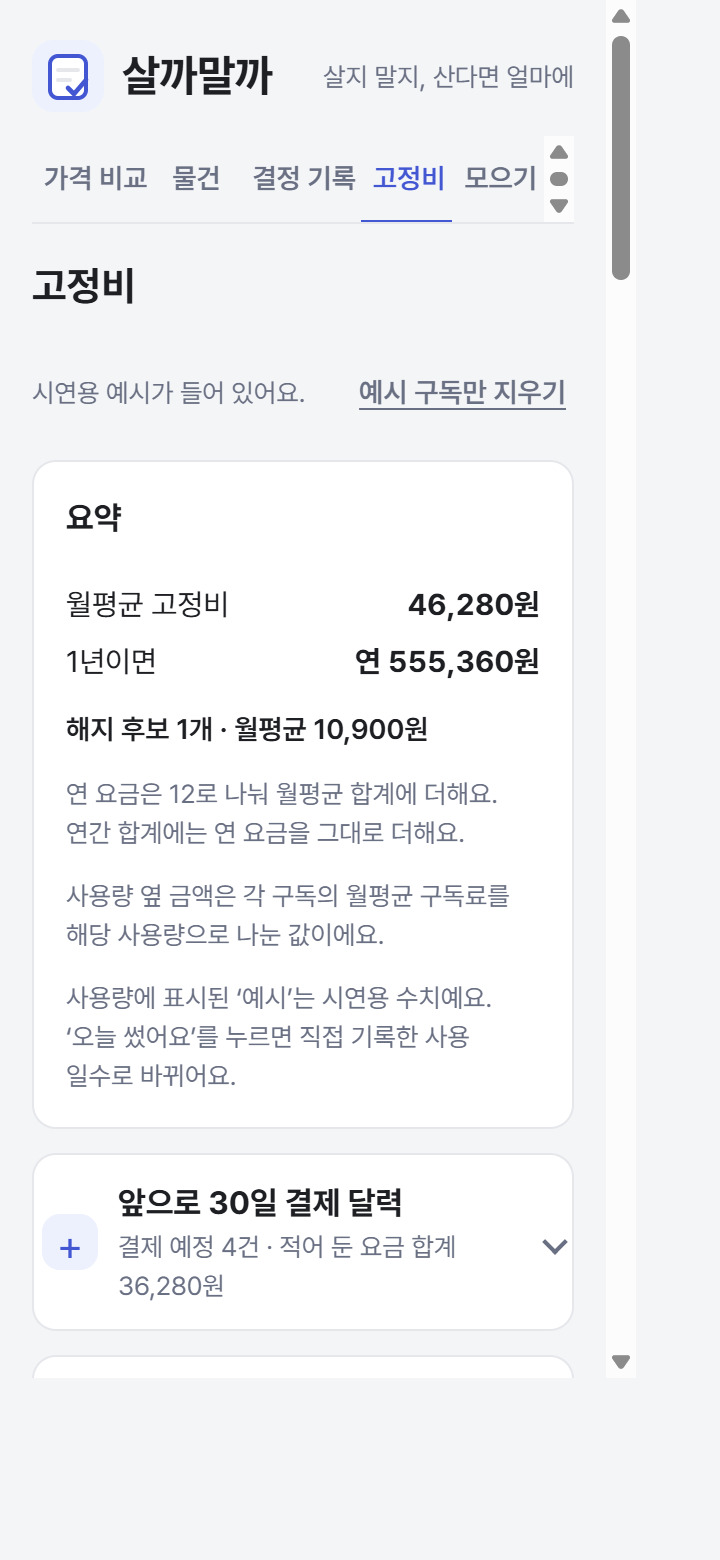
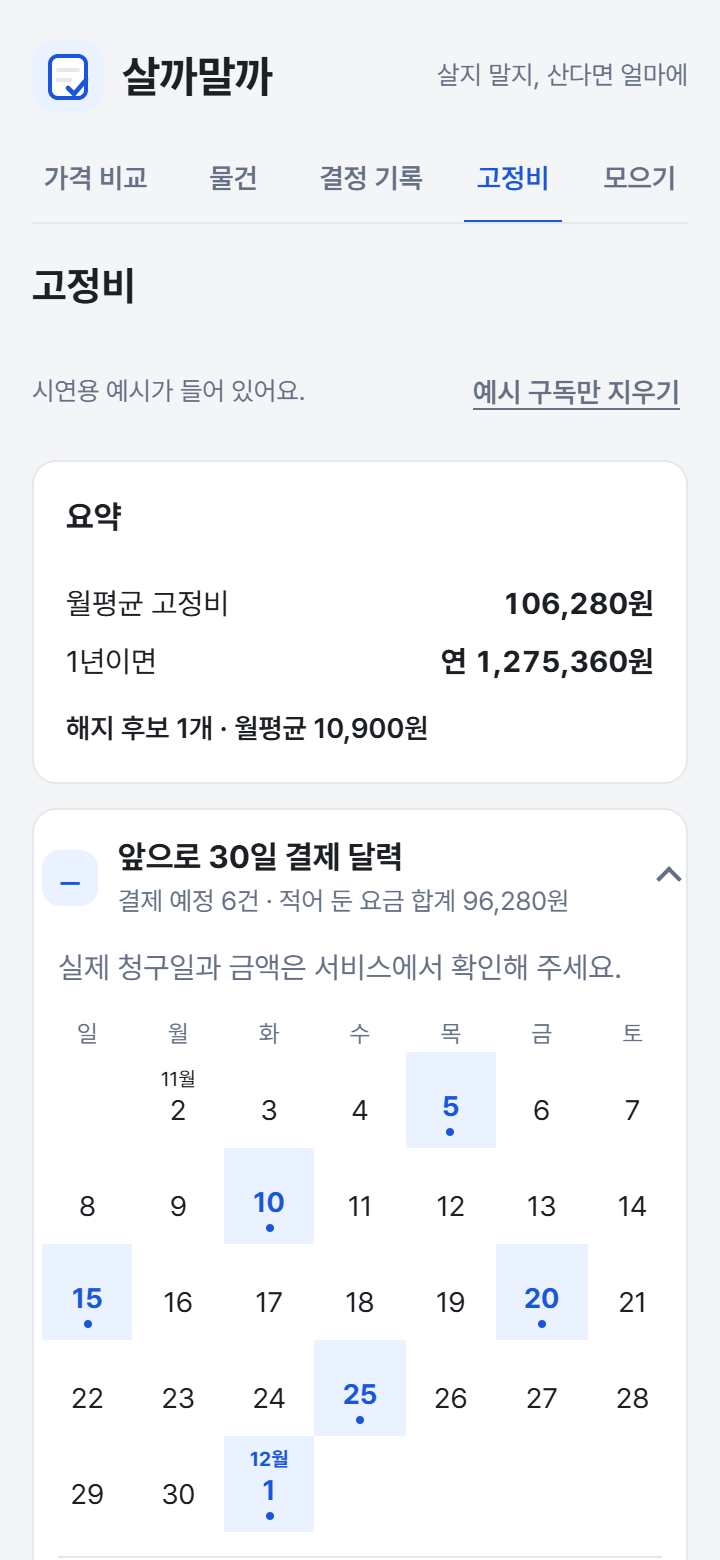
feat: simplify fixed-cost and savings views for midterm demo
Open the payment calendar, expand sourced benefit guidance, and move optional entry forms below the summary. Refresh comparison screenshots and explain the v1-to-midterm PRD, TODO, and skill lessons.

diff --git a/src/App.fixedCosts.test.tsx b/src/App.fixedCosts.test.tsx
@@ -80,7 +80,7 @@ describe('고정비 종류와 요약 (F45)', () => {
     expect(summary().getByText('월평균 고정비')).toBeInTheDocument()
     expect(summary().getByText('528,500원')).toBeInTheDocument()
     expect(summary().getByText('연 6,342,000원')).toBeInTheDocument()
-    expect(summary().getByText('구독·멤버십 23,500원 · 통신 55,000원 · 월세·관리비 450,000원')).toBeInTheDocument()
+    expect(screen.getByText('구독·멤버십 23,500원 · 통신 55,000원 · 월세·관리비 450,000원')).toBeInTheDocument()
     expect(storedItems().find((i) => i.name === '월세')).toMatchObject({ kind: 'housing' })
     expect(storedItems().find((i) => i.name === '휴대폰')).toMatchObject({ kind: 'phone', lastUsedDate: null })
     expect(storedItems().find((i) => i.name === '넷플릭스')).not.toHaveProperty('kind')
@@ -133,14 +133,14 @@ describe('예전 기록과 예시 (F45)', () => {
     expect(summary().getByText('해지 후보 1개 · 월평균 13,500원')).toBeInTheDocument()
   })
 
-  it('AC82: 예시 구독은 AC30 그대로다', async () => {
+  it('AC82: 예시 구독에 통신·보험 고정비가 더해진다', async () => {
     const user = await openFixed()
     await user.click(screen.getByRole('button', { name: '예시 구독 넣기' }))
-    expect(screen.getAllByRole('article')).toHaveLength(5)
-    expect(summary().getByText('46,280원')).toBeInTheDocument()
-    expect(summary().getByText('연 555,360원')).toBeInTheDocument()
+    expect(screen.getAllByRole('article')).toHaveLength(7)
+    expect(summary().getByText('106,280원')).toBeInTheDocument()
+    expect(summary().getByText('연 1,275,360원')).toBeInTheDocument()
     expect(summary().getByText('해지 후보 1개 · 월평균 10,900원')).toBeInTheDocument()
-    expect(summary().queryByText(/구독·멤버십 .*원/)).not.toBeInTheDocument()
+    expect(screen.getByText('고정비 분석·계산 방법')).toBeInTheDocument()
   })
 
   it('AC82: 종류를 통신으로 바꿨다가 다시 구독으로 바꾸면 확인 필요다', async () => {
@@ -244,7 +244,7 @@ describe('무료 체험 끝나는 날 (F46)', () => {
     expect(storedItems()[0]).toMatchObject({ name: '넷플릭스', billingDay: 14, trialEndDate: '2026-11-14' })
     expect(card('넷플릭스').getByText(TRIAL_ON)).toBeInTheDocument()
     expect(card('넷플릭스').getByText('다음 결제 2026-11-14 · D-13')).toBeInTheDocument()
-    expect(summary().getByText('무료 체험 중 1개 · 끝나면 월 13,500원이 더 나가요')).toBeInTheDocument()
+    expect(screen.getByText('무료 체험 중 1개 · 끝나면 월 13,500원이 더 나가요')).toBeInTheDocument()
     // 체험 중인 것만 있으면 합계는 0원이다
     expect(summary().getByText('연 0원')).toBeInTheDocument()
   })
@@ -263,7 +263,7 @@ describe('무료 체험 끝나는 날 (F46)', () => {
     await openFixed()
     expect(card('넷플릭스').getByText('무료 체험 중 · 2026-11-14에 끝나요 (D-13). 그 뒤 연 120,000원')).toBeInTheDocument()
     expect(card('넷플릭스').getByText('다음 결제 2026-11-14 · D-13')).toBeInTheDocument()
-    expect(summary().getByText('무료 체험 중 1개 · 끝나면 월 10,000원이 더 나가요')).toBeInTheDocument()
+    expect(screen.getByText('무료 체험 중 1개 · 끝나면 월 10,000원이 더 나가요')).toBeInTheDocument()
   })
 
   it('AC85: 체험 중인 것과 통신이 있으면 합계는 통신만이고 종류별 줄이 없다', async () => {
@@ -273,7 +273,7 @@ describe('무료 체험 끝나는 날 (F46)', () => {
     expect(summary().getByText('연 660,000원')).toBeInTheDocument()
     expect(summary().queryByText(/구독·멤버십 .*원/)).not.toBeInTheDocument()
     expect(summary().queryByText(/통신 .*원 ·|· 통신 /)).not.toBeInTheDocument()
-    expect(summary().getByText('무료 체험 중 1개 · 끝나면 월 13,500원이 더 나가요')).toBeInTheDocument()
+    expect(screen.getByText('무료 체험 중 1개 · 끝나면 월 13,500원이 더 나가요')).toBeInTheDocument()
   })
 
   it('AC86: 11-14·11-15·12-01에 다시 보면 PRD 문장과 날짜다', async () => {
@@ -283,7 +283,7 @@ describe('무료 체험 끝나는 날 (F46)', () => {
     expect(card('넷플릭스').getByText('무료 체험이 오늘 끝나요. 해지하지 않으면 유료로 바뀌어요.')).toBeInTheDocument()
     expect(card('넷플릭스').getByText('다음 결제 2026-11-14 · D-0')).toBeInTheDocument()
     expect(summary().getByText('55,000원')).toBeInTheDocument()
-    expect(summary().getByText('무료 체험 중 1개 · 끝나면 월 13,500원이 더 나가요')).toBeInTheDocument()
+    expect(screen.getByText('무료 체험 중 1개 · 끝나면 월 13,500원이 더 나가요')).toBeInTheDocument()
     cleanup()
     // 11-15: 체험 줄이 없고 결제일 규칙의 다음 결제일이다. 월평균 고정비에 13,500원이 들어간다
     await openFixedAt(new Date(2026, 10, 15, 9))
@@ -291,7 +291,7 @@ describe('무료 체험 끝나는 날 (F46)', () => {
     expect(card('넷플릭스').getByText('다음 결제 2026-11-20 · D-5')).toBeInTheDocument()
     expect(summary().getByText('68,500원')).toBeInTheDocument()
     expect(summary().queryByText(/무료 체험 중/)).not.toBeInTheDocument()
-    expect(summary().getByText('구독·멤버십 13,500원 · 통신 55,000원')).toBeInTheDocument()
+    expect(screen.getByText('구독·멤버십 13,500원 · 통신 55,000원')).toBeInTheDocument()
     cleanup()
     // 12-01
     await openFixedAt(new Date(2026, 11, 1, 9))

diff --git a/src/screens/SubscriptionScreen.tsx b/src/screens/SubscriptionScreen.tsx
@@ -221,31 +221,28 @@ export function SubscriptionScreen({ items, today, status, onAdd, onEdit, onRemo
               <span className="price">연 {formatWon(s.yearlyTotal)}</span>
             </li>
           </ul>
-          {totalsLine ? <p>{totalsLine}</p> : null}
-          {trialSummary ? <p>{trialSummary}</p> : null}
-          {riseLine ? <p>{riseLine}</p> : null}
-          {overlaps.map((line) => <p key={line}>{line}</p>)}
-          {overlaps.length > 0 ? <p className="note">{OVERLAP_NOTE}</p> : null}
           {s.candidateCount > 0 ? (
             <p className="field-label">
               해지 후보 {s.candidateCount}개 · 월평균 {formatWon(s.candidateMonthly)}
             </p>
           ) : null}
-          {/* 사용 기록이 없으면 안 쓰는지 알 수 없어 해지 후보로 세지 않는다 (F23) */}
-          {s.unknownCount > 0 ? (
-            <p className="note">{`사용 기록이 없는 구독 ${s.unknownCount}개는 마지막으로 쓴 날을 적거나 '오늘 썼어요'를 누르면 해지 후보인지 알려 줘요.`}</p>
-          ) : null}
-          <p className="note">연 요금은 12로 나눠 월평균 합계에 더해요. 연간 합계에는 연 요금을 그대로 더해요.</p>
-          {/* 금액(…꼴)이 실제로 보이는 사용량이 있을 때만 설명한다. '사용 기록 없음'·'사용 없음'만 있으면 숨긴다 (GPT 29번) */}
-          {active.some((sub) => tracksUsage(sub) && usageInfo(sub, today)?.text.includes('꼴')) ? (
-            <p className="note">사용량 옆 금액은 각 구독의 월평균 구독료를 해당 사용량으로 나눈 값이에요.</p>
-          ) : null}
-          {active.some((sub) => tracksUsage(sub) && usageInfo(sub, today)?.source === 'example') ? (
-            <p className="note">사용량에 표시된 ‘예시’는 시연용 수치예요. ‘오늘 썼어요’를 누르면 직접 기록한 사용 일수로 바뀌어요.</p>
-          ) : null}
         </section>
       ) : null}
       <PaymentCalendarSection subscriptions={items} today={today} />
+      {active.length > 0 ? <details className="card guide">
+        <summary className="card-title">고정비 분석·계산 방법</summary>
+        <div className="stack">
+          {totalsLine ? <p>{totalsLine}</p> : null}
+          {trialSummary ? <p>{trialSummary}</p> : null}
+          {riseLine ? <p>{riseLine}</p> : null}
+          {overlaps.map((line) => <p key={line}>{line}</p>)}
+          {overlaps.length > 0 ? <p className="note">{OVERLAP_NOTE}</p> : null}
+          {s.unknownCount > 0 ? <p className="note">{`사용 기록이 없는 구독 ${s.unknownCount}개는 마지막으로 쓴 날을 적거나 '오늘 썼어요'를 누르면 해지 후보인지 알려 줘요.`}</p> : null}
+          <p className="note">연 요금은 12로 나눠 월평균 합계에 더해요. 연간 합계에는 연 요금을 그대로 더해요.</p>
+          {active.some((sub) => tracksUsage(sub) && usageInfo(sub, today)?.text.includes('꼴')) ? <p className="note">사용량 옆 금액은 각 구독의 월평균 구독료를 해당 사용량으로 나눈 값이에요.</p> : null}
+          {active.some((sub) => tracksUsage(sub) && usageInfo(sub, today)?.source === 'example') ? <p className="note">사용량에 표시된 ‘예시’는 시연용 수치예요. ‘오늘 썼어요’를 누르면 직접 기록한 사용 일수로 바뀌어요.</p> : null}
+        </div>
+      </details> : null}
       <SubscriptionForm label={ADD_FORM} submitLabel={ADD_BUTTON} today={today} onSubmit={onAdd} resetAfterSubmit />
       {active.length === 0 ? (
         <div className="empty card stack">

diff --git a/src/logic/benefits.ts b/src/logic/benefits.ts
@@ -17,10 +17,10 @@ export const EMPTY_BENEFITS: BenefitsStore = { schemaVersion: 1, programs: [], c
 export const PROGRAM_IDS: readonly ProgramId[] = ['rent', 'energy', 'transport']
 export const PROGRAM_STATUSES: readonly ProgramStatus[] = ['checked', 'applied', 'receiving', 'not-applicable']
 export const PROGRAM_STATUS_LABEL: Record<ProgramStatus, string> = { checked: '확인함', applied: '신청함', receiving: '받는 중', 'not-applicable': '해당 없음' }
-export const PROGRAMS: readonly { id: ProgramId; name: string; description: string; url: string }[] = [
-  { id: 'rent', name: '청년 월세 지원', description: '주거비 지원 안내', url: 'https://www.bokjiro.go.kr/' },
-  { id: 'energy', name: '에너지바우처', description: '냉난방비 지원 안내', url: 'https://www.energyv.or.kr/info/support_info.do' },
-  { id: 'transport', name: '교통비 환급', description: '모두의카드·K-패스 대중교통 환급 안내', url: 'https://korea-pass.kr/' },
+export const PROGRAMS: readonly { id: ProgramId; name: string; description: string; eligibility: string; support: string; nextStep: string; url: string }[] = [
+  { id: 'rent', name: '청년 월세 지원', description: '2026년 신규 신청은 5월 29일에 마감됐어요. 다음 모집 일정은 공식 안내에서 확인하세요.', eligibility: '부모와 따로 사는 만 19~34세 무주택 청년. 청년가구·원가구의 소득과 재산 기준도 함께 적용돼요.', support: '월세를 월 최대 20만 원, 최장 24개월 지원해요. 실제 월세와 심사 결과에 따라 달라져요.', nextStep: '복지로 또는 거주지 행정복지센터에서 모집 일정과 자격을 확인하세요.', url: 'https://www.bokjiro.go.kr/ssis-tbu/cms/pc/news/news/1309493_1114.html' },
+  { id: 'energy', name: '에너지바우처', description: '2026년 신청 기간은 6월 15일~12월 31일이에요.', eligibility: '기초생활수급 자격과 세대원 특성 기준을 모두 확인해야 해요.', support: '전기·가스 등 냉난방 에너지 비용을 요금 차감 또는 국민행복카드로 지원해요.', nextStep: '거주지 행정복지센터나 복지로에서 신청하세요. 이사·세대원 변동이 있으면 재신청이 필요할 수 있어요.', url: 'https://www.energyv.or.kr/info/apl_info.do' },
+  { id: 'transport', name: '교통비 환급', description: 'K-패스와 모두의카드 환급을 비교해 보세요.', eligibility: '참여 지자체에 주민등록한 만 19세 이상. K-패스 카드 발급과 회원가입·카드 등록이 필요해요.', support: '한 달 대중교통 15회 이상 이용하면 기본형·모두의카드 일반형·플러스형 중 유리한 방식이 자동 적용돼 다음 달 환급돼요.', nextStep: 'K-패스 앱·홈페이지에서 카드 등록과 가입 여부를 확인하세요.', url: 'https://korea-pass.kr/' },
 ]
 export const PROGRAM_LIST_CHECKED_ON = '2026-11-02'
 export const CARD_MAX = 20

diff --git a/src/App.usage.test.tsx b/src/App.usage.test.tsx
@@ -24,10 +24,10 @@ async function openSubs() {
 }
 
 describe('구독 사용량 (예시, F16)', () => {
-  it('예시 구독 5개에 사용 시간·횟수와 한 번에 드는 돈을 예시로 보여준다', async () => {
+  it('예시 고정비 7개에 사용 시간·횟수와 한 번에 드는 돈을 예시로 보여준다', async () => {
     const user = await openSubs()
     await user.click(screen.getByRole('button', { name: '예시 구독 넣기' }))
-    expect(screen.getAllByRole('article')).toHaveLength(5)
+    expect(screen.getAllByRole('article')).toHaveLength(7)
     expect(card('(예시) 넷플릭스').getByText('사용량(예시): 최근 30일 18시간 · 1시간에 약 750원꼴')).toBeInTheDocument()
     expect(card('(예시) 음악 스트리밍').getByText('사용량(예시): 최근 30일 사용 없음')).toBeInTheDocument()
     expect(card('(예시) 배달의민족 배민클럽').getByText('사용량(예시): 최근 30일 6번 사용 · 1번에 약 670원꼴')).toBeInTheDocument()
@@ -35,10 +35,10 @@ describe('구독 사용량 (예시, F16)', () => {
     // '사용량 적기' 버튼(F25)이 아니라 사용량 표시 줄이 없는지 본다
     expect(card('(예시) 클라우드 저장공간').queryByText(/^사용량\(/)).not.toBeInTheDocument()
     const summary = within(screen.getByRole('region', { name: '고정비 요약' }))
-    expect(summary.getByText('46,280원')).toBeInTheDocument()
-    expect(summary.getByText('연 555,360원')).toBeInTheDocument()
-    expect(summary.getByText('사용량에 표시된 ‘예시’는 시연용 수치예요. ‘오늘 썼어요’를 누르면 직접 기록한 사용 일수로 바뀌어요.')).toBeInTheDocument()
-    expect(summary.getByText('사용량 옆 금액은 각 구독의 월평균 구독료를 해당 사용량으로 나눈 값이에요.')).toBeInTheDocument()
+    expect(summary.getByText('106,280원')).toBeInTheDocument()
+    expect(summary.getByText('연 1,275,360원')).toBeInTheDocument()
+    expect(screen.getByText('사용량에 표시된 ‘예시’는 시연용 수치예요. ‘오늘 썼어요’를 누르면 직접 기록한 사용 일수로 바뀌어요.')).toBeInTheDocument()
+    expect(screen.getByText('사용량 옆 금액은 각 구독의 월평균 구독료를 해당 사용량으로 나눈 값이에요.')).toBeInTheDocument()
   })
 
   it('직접 넣은 구독에는 사용량을 보여주지 않는다', async () => {

diff --git a/src/screens/SavingsScreen.tsx b/src/screens/SavingsScreen.tsx
@@ -63,10 +63,11 @@ type Props = {
   pantry: PantryStore
   spending: ReturnType<typeof useSpending>
   benefits?: BenefitsStore
+  benefitsPanel?: ReactNode
   today: Date
 }
 
-export function SavingsScreen({ items, subscriptions, savings, pantry, spending, benefits, today }: Props) {
+export function SavingsScreen({ items, subscriptions, savings, pantry, spending, benefits, benefitsPanel, today }: Props) {
   // 저장 안내가 사라지면 포커스를 화면 제목으로 옮긴다
   const headingRef = useRef<HTMLHeadingElement>(null)
   const n = savingsNumbers(items, subscriptions, savings.store)
@@ -149,6 +150,7 @@ export function SavingsScreen({ items, subscriptions, savings, pantry, spending,
         {resale.count > 0 ? <p className="note">판 금액은 실제 입금을 확인한 금액이 아니에요.</p> : null}
         {receivedSupport > 0 ? <p className="note">직접 적은 받은 지원금 {formatWon(receivedSupport)} · 옮긴 돈과는 따로 보여요.</p> : null}
       </section> : null}
+      {benefitsPanel}
       <GoalCard goal={savings.store.goal} transfers={savings.store.transfers} today={today} onSet={savings.setGoal} onClear={savings.clearGoal} />
       <TransferForm today={today} transfers={savings.store.transfers} onAdd={savings.addTransfer} />
       <TransferLog transfers={savings.store.transfers} onRemove={removeTransfer} onLostFocus={() => headingRef.current?.focus()} />
@@ -403,9 +405,10 @@ function TransferForm({
   }
 
   return (
-    <>
-      <form className="card stack" aria-label="옮긴 돈 적기" onSubmit={submit} noValidate ref={ref}>
-        <p className="card-title">옮긴 돈 적기</p>
+    <details className="card guide">
+      <summary className="card-title">옮긴 돈 적기</summary>
+      <div className="stack">
+      <form className="stack" aria-label="옮긴 돈 적기" onSubmit={submit} noValidate ref={ref}>
         <p className="note">{TRANSFER_INTRO}</p>
         <fieldset className="field" style={{ border: 0, padding: 0, margin: 0 }}>
           <legend className="field-label">옮긴 방향</legend>
@@ -447,7 +450,8 @@ function TransferForm({
       <div role="status" aria-label="옮긴 돈 알림" className={saved && noticeActive ? undefined : 'similar-empty'}>
         {saved && noticeActive ? <p className="note">{saved.text}</p> : null}
       </div>
-    </>
+      </div>
+    </details>
   )
 }
 

diff --git a/src/screens/SpendingSection.tsx b/src/screens/SpendingSection.tsx
@@ -23,7 +23,7 @@ export function SpendingSection({ spending, today }: { spending: ReturnType<type
   const [full, setFull] = useState(false)
   const [deleteTemplateId, setDeleteTemplateId] = useState<string | null>(null)
   const [deleteEntryId, setDeleteEntryId] = useState<string | null>(null)
-  const titleRef = useRef<HTMLParagraphElement>(null)
+  const titleRef = useRef<HTMLElement>(null)
   const { ref, focusFirstError } = useFocusFirstError<HTMLFormElement>()
   const summary = spendingMonthSummary(spending.store.entries, today)
   const weekly = new Map(spending.store.templates.map((template) => [template.id, weeklySpendingExperiment(spending.store.entries, template.id, today)]))
@@ -55,8 +55,9 @@ export function SpendingSection({ spending, today }: { spending: ReturnType<type
     else setMessage('')
   }
 
-  return <section className="card stack" aria-label="자잘한 지출">
-    <p className="card-title" tabIndex={-1} ref={titleRef}>자잘한 지출</p>
+  return <details className="card guide" aria-label="자잘한 지출">
+    <summary className="card-title" tabIndex={-1} ref={titleRef}>자잘한 지출</summary>
+    <div className="stack">
     {spending.status.kind !== 'ok' ? <div className="banner stack" role="status" aria-label={SPENDING_STORAGE_LABEL}>
       {spending.status.kind === 'unavailable' ? <p>{SPENDING_UNAVAILABLE}</p> : null}
       {spending.status.kind === 'save-failed' ? <><p>{SPENDING_SAVE_FAILED}</p><Button onClick={spending.retrySave}>다시 저장</Button></> : null}
@@ -99,5 +100,6 @@ export function SpendingSection({ spending, today }: { spending: ReturnType<type
           : <Button aria-label={`${entry.day} ${entry.name} 기록 지우기`} onClick={() => setDeleteEntryId(entry.id)}>지우기</Button>}
       </div>)}
     </div></details> : null}
-  </section>
+    </div>
+  </details>
 }

diff --git a/src/logic/usage.test.ts b/src/logic/usage.test.ts
@@ -46,18 +46,20 @@ describe('예시 구독과 예시 사용량 (F14·F16)', () => {
   let n = 0
   const demo = demoSubscriptions(NOW, () => `id-${++n}`)
 
-  it('예시 구독 5개: OTT·음악은 시간, 배달·쇼핑 멤버십은 횟수, 클라우드는 시간으로 보기 어려워 없음', () => {
+  it('예시 고정비 7개: 구독·멤버십에 통신·보험을 더한다', () => {
     expect(demo.map((s) => [s.name, s.priceKrw, s.exampleUsageMinutes, s.exampleUseCount])).toEqual([
       ['(예시) 넷플릭스', 13500, 1080, undefined],
       ['(예시) 음악 스트리밍', 10900, 0, undefined],
       ['(예시) 클라우드 저장공간', 120000, undefined, undefined],
       ['(예시) 배달의민족 배민클럽', 3990, undefined, 6],
       ['(예시) 쿠팡 와우 멤버십', 7890, undefined, 1],
+      ['(예시) 휴대폰 요금', 35000, undefined, undefined],
+      ['(예시) 보험료', 25000, undefined, undefined],
     ])
   })
 
-  it('예시 요약: 월 46,280원, 연 555,360원, 해지 후보는 음악 스트리밍 1개', () => {
-    expect(subscriptionSummary(demo, NOW)).toEqual({ monthlyTotal: 46280, yearlyTotal: 555360, candidateCount: 1, candidateMonthly: 10900, unknownCount: 0, trialCount: 0, trialMonthly: 0 })
+  it('예시 요약: 월 106,280원, 연 1,275,360원, 해지 후보는 음악 스트리밍 1개', () => {
+    expect(subscriptionSummary(demo, NOW)).toEqual({ monthlyTotal: 106280, yearlyTotal: 1275360, candidateCount: 1, candidateMonthly: 10900, unknownCount: 0, trialCount: 0, trialMonthly: 0 })
   })
 
   it('복원할 때 예시 사용 시간은 0~43,200분, 사용 횟수는 0~999 정수만 받고, 둘이 함께 있으면 손상이다', () => {

diff --git a/src/App.f23.test.tsx b/src/App.f23.test.tsx
@@ -71,12 +71,12 @@ describe('구독 사용 기록 없음은 확인 필요 (F23, AC42)', () => {
     await user.click(form.getByRole('button', { name: '고정비 추가' }))
     expect(card('티빙').getByText('확인 필요')).toBeInTheDocument()
     expect(card('티빙').queryByText('해지 후보')).not.toBeInTheDocument()
-    expect(summary().getByText(NOTE)).toBeInTheDocument()
+    expect(screen.getByText(NOTE)).toBeInTheDocument()
     expect(summary().queryByText(/^해지 후보 \d+개/)).not.toBeInTheDocument()
 
     await user.click(card('티빙').getByRole('button', { name: '오늘 썼어요' }))
     expect(card('티빙').queryByText('확인 필요')).not.toBeInTheDocument()
-    expect(summary().queryByText(NOTE)).not.toBeInTheDocument()
+    expect(screen.queryByText(NOTE)).not.toBeInTheDocument()
     await user.click(card('티빙').getByRole('button', { name: '오늘 썼어요' }))
     expect(card('티빙').getByText('확인 필요')).toBeInTheDocument()
   })
@@ -105,7 +105,7 @@ describe('구독 사용 기록 없음은 확인 필요 (F23, AC42)', () => {
     expect(card('왓챠').queryByText('확인 필요')).not.toBeInTheDocument()
   })
 
-  it('예시 구독은 해지 후보 1개 · 월평균 10,900원이고 확인 필요는 없다', async () => {
+  it('예시 고정비는 해지 후보 1개 · 월평균 10,900원이고 확인 필요는 없다', async () => {
     const user = await openSubs()
     await user.click(screen.getByRole('button', { name: '예시 구독 넣기' }))
     expect(summary().getByText('해지 후보 1개 · 월평균 10,900원')).toBeInTheDocument()

diff --git a/src/screens/BenefitsSection.tsx b/src/screens/BenefitsSection.tsx
@@ -19,7 +19,7 @@ export function BenefitsSection({ benefits, today, focusExpiryId, onFocusDone }:
     ...current,
     programs: [...current.programs.filter((row) => row.id !== value.id), value],
   }))
-  return <details className="card guide" ref={rootRef}>
+  return <details className="card guide" ref={rootRef} open>
     <summary className="card-title">받을 수 있는 돈</summary>
     <div className="stack">
       <p className="note">조건은 자주 바뀌어요. 받을 수 있는지는 공식 사이트에서 확인해 주세요.</p>
@@ -195,10 +195,13 @@ function ProgramRow({ program, saved, today, onSave }: {
     if (!value) { setError(true); return }
     if (onSave(value)) { setError(false); setNotice(true) }
   }
-  return <details className="benefit-item">
+  return <details className="benefit-item" open={program.id === 'rent'}>
     <summary className="field-label">{program.name}</summary>
     <div className="stack benefit-item-content">
       <p className="note">{program.description}</p>
+      <p className="note"><strong>대상:</strong> {program.eligibility}</p>
+      <p className="note"><strong>혜택:</strong> {program.support}</p>
+      <p className="note"><strong>확인:</strong> {program.nextStep}</p>
       <a href={program.url} target="_blank" rel="noopener noreferrer" aria-label={`${program.name} 공식 안내`}>공식 안내 열기</a>
       {saved ? <p className="note">{`${PROGRAM_STATUS_LABEL[saved.status]} · ${saved.checkedOn}에 확인`}</p> : null}
       <form className="stack" aria-label={`${program.name} 확인`} onSubmit={submit} noValidate>

diff --git a/src/logic/subscriptions.ts b/src/logic/subscriptions.ts
@@ -457,7 +457,7 @@ export function toDayIso(date: Date): string {
   return toIso(date.getFullYear(), date.getMonth() + 1, date.getDate())
 }
 
-// 발표·시연용 예시 구독: 월 구독 4개(하나는 해지 후보, 둘은 배달·쇼핑 멤버십)와 연 구독 1개.
+// 발표·시연용 예시 고정비: 월 구독·멤버십 4개, 월 통신·보험 2개, 연 구독 1개.
 // 사용량은 예시 숫자다(F16): OTT·음악은 사용 시간, 배달·쇼핑 멤버십은 사용 횟수, 클라우드는 시간으로 보기 어려워 없음.
 // 쿠팡 와우는 최근에 썼지만(해지 후보 아님) 한 달에 한 번이라 한 번에 드는 돈이 크다는 것을 보여준다.
 export function demoSubscriptions(today: Date, nextId: () => string): Subscription[] {
@@ -493,6 +493,16 @@ export function demoSubscriptions(today: Date, nextId: () => string): Subscripti
       ),
       exampleUseCount: 1,
     },
+    createSubscription(
+      { name: '(예시) 휴대폰 요금', priceKrw: 35000, kind: 'phone', cycle: 'monthly', billingDay: 10, lastUsedDate: null, memo: '설명을 위한 임의 금액 · 실제 청구액을 확인해 바꿔 주세요' },
+      today,
+      nextId(),
+    ),
+    createSubscription(
+      { name: '(예시) 보험료', priceKrw: 25000, kind: 'insurance', cycle: 'monthly', billingDay: 25, lastUsedDate: null, memo: '설명을 위한 임의 금액 · 실제 청구액을 확인해 바꿔 주세요' },
+      today,
+      nextId(),
+    ),
   ]
 }
 

diff --git a/src/App.areas.test.tsx b/src/App.areas.test.tsx
@@ -17,9 +17,8 @@ async function open() { const user = userEvent.setup(); render(<App />); await u
 it('AC109: 배달에 쓰는 멤버십 둘은 요약과 카드에 겹침이 보인다', async () => {
   seed(first, second)
   await open()
-  const summary = within(screen.getByRole('region', { name: '고정비 요약' }))
-  expect(summary.getByText('같은 곳에 쓰는 구독·멤버십: 배달 2개(배달의민족 배민클럽, 쿠팡 와우 멤버십) · 월 11,880원')).toBeInTheDocument()
-  expect(summary.getByText('모두 쓰는지는 각 카드의 사용 기록에서 볼 수 있어요.')).toBeInTheDocument()
+  expect(screen.getByText('같은 곳에 쓰는 구독·멤버십: 배달 2개(배달의민족 배민클럽, 쿠팡 와우 멤버십) · 월 11,880원')).toBeInTheDocument()
+  expect(screen.getByText('모두 쓰는지는 각 카드의 사용 기록에서 볼 수 있어요.')).toBeInTheDocument()
   expect(within(screen.getByRole('article', { name: '배달의민족 배민클럽' })).getByText('배달에 쓰는 것이 하나 더 있어요: 쿠팡 와우 멤버십')).toBeInTheDocument()
 })
 
